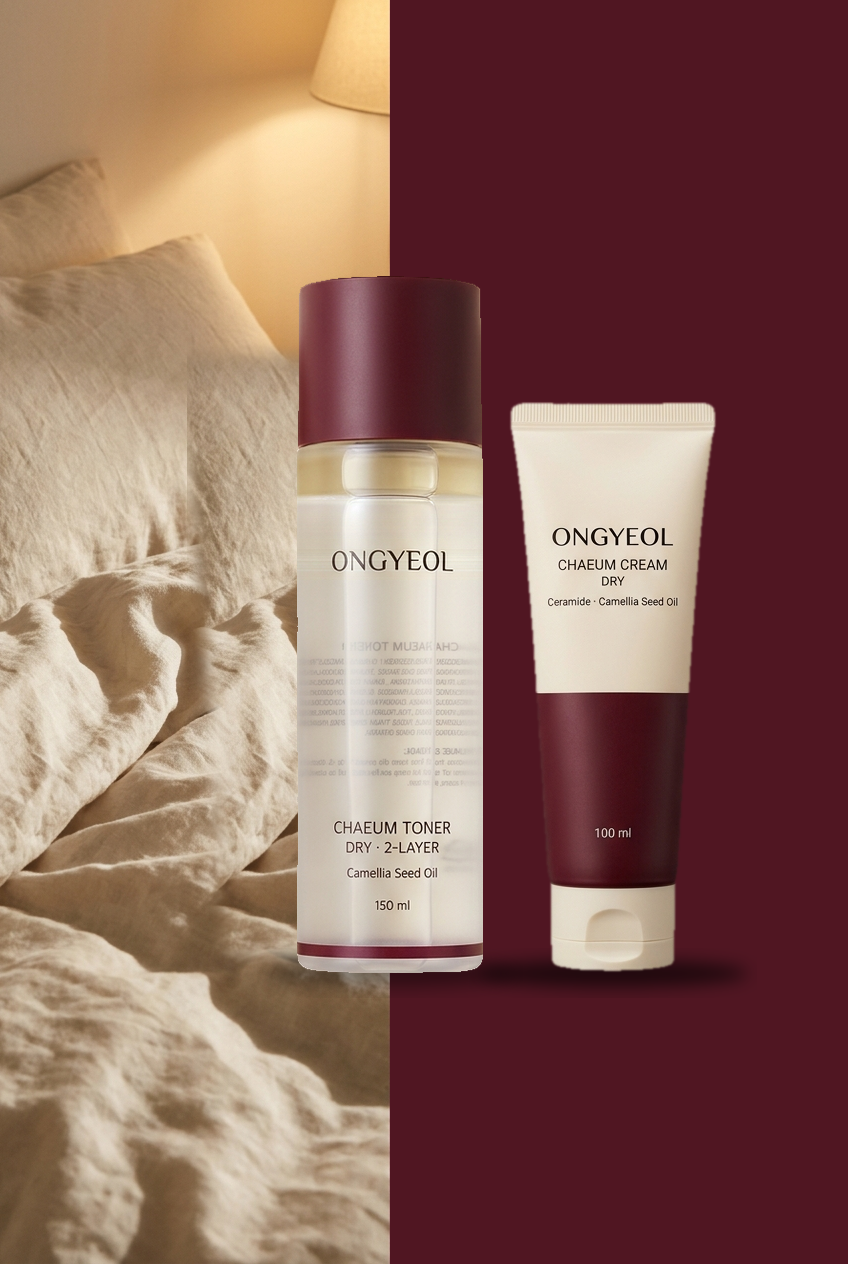
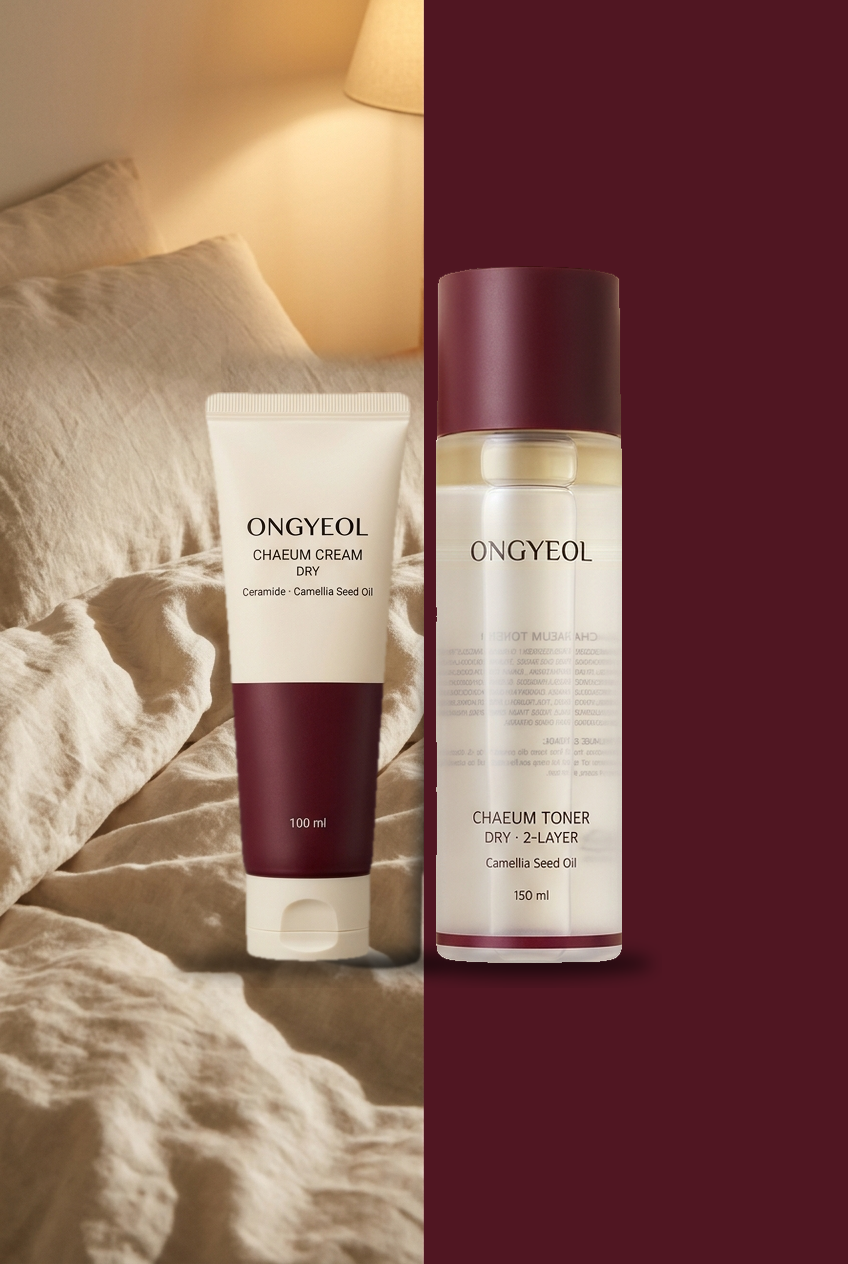
D6 composite: cream left, toner right, centered pair
Claude-Session: https://claude.ai/code/session_01MXYaLybSstgexbFSnpQ7Pc

diff --git a/디자인/이미지/선택/README.md b/디자인/이미지/선택/README.md
@@ -10,6 +10,6 @@
 - 모든 원본은 Google Antigravity CLI(agy) 이미지 생성 도구(gemini-3.1-flash-image)로 생성. `_원본.jpg` = C2PA·SynthID가 남은 원본.
 - `합성_`·`보정_` 파일은 원본을 총괄 세션에서 편집한 파생본 (C2PA 메타데이터 없음):
   - 합성_D5: v10 D5에서 제품을 오려 배경을 채우고 제품을 화면 1/6 크기로 다시 배치
-  - 합성_D6: v9 D6 배경(사진 + 와인 색면, 원래 크림은 옆 침구 질감으로 덮음) + 토너(보정_D8)를 경계선 위, 크림을 와인 쪽에 배치 (11-22 균형 수정)
+  - 합성_D6: v9 D6 배경(사진 + 와인 색면, 원래 크림은 옆 침구 질감으로 덮음) + 왼쪽 크림·오른쪽 토너를 나란히 화면 중앙(경계선 양쪽)에 배치 (11-22 수정)
   - 보정_D8: v10 D8 토너의 오일층 아래 전이 구간 색을 물 색으로 보정 → 오일층 약 5% 두께
 - 포트폴리오 표기: "AI로 생성한 가상 브랜드 목업 (일부 합성·보정)"
